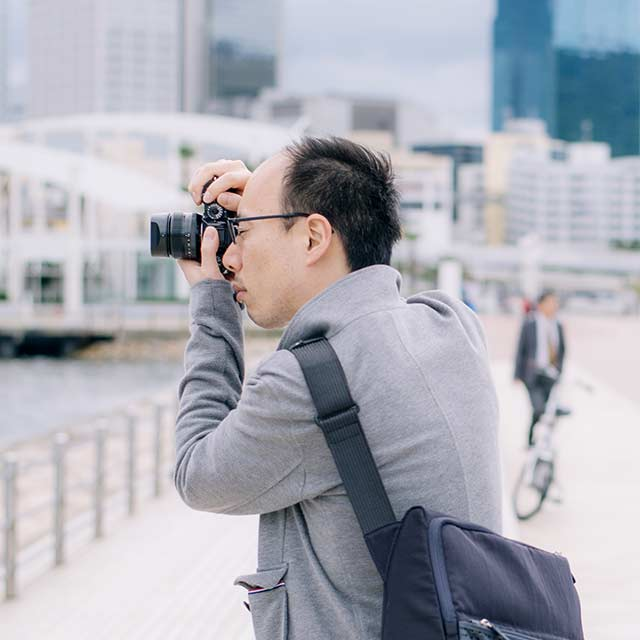
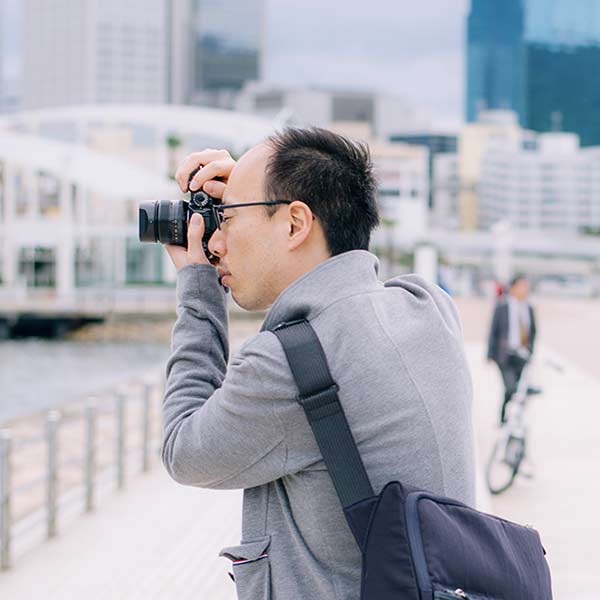
Profile画像リサイズ（再）／紹介文変更

diff --git a/src/components/Profile.vue b/src/components/Profile.vue
@@ -14,7 +14,7 @@
         {{ profile.nameEn }}
       </p>
       <p class="text-left px-2 lg:px-0 py-6 leading-loose" style="font-size: .94rem">
-        {{ profile.intro.t1 }}{{ profile.intro.t2 }}<br>{{ profile.intro.t3 }}{{ $static.metadata.siteName }}{{ profile.intro.t4 }}
+        {{ profile.intro.t1 }}<br>{{ profile.intro.t2 }}
       </p>
       <!-- Social -->
       <div class="flex flex-wrap justify-center text-center pt-2 px-4 lg:px-0">
@@ -41,9 +41,7 @@ export default {
         // nickname: '（なむ）',
         intro: {
           t1: 'Web開発をしながら、撮られることに慣れてない方の笑顔やステキな空気感をそっとすくい撮ってます。',
-          t2: '横浜育ち38年、脱サラ信州移住2年半を経て、2018年春から関西在住。翌年秋から夫婦生活スタート。関西に来てよかったことは京都が近くなったこと、めっちゃ嬉しい。',
-          t3: 'そんな僕のポートフォリオサイト「',
-          t4: '」をよろしくお願いします。'
+          t2: '横浜育ち38年、脱サラ信州移住2年半を経て、2018年春から関西在住。翌年秋から夫婦生活スタート。関西に来てよかったことは京都が近くなったこと。',
         },
         desc: '花村貴史のアイコン画像'
       },
